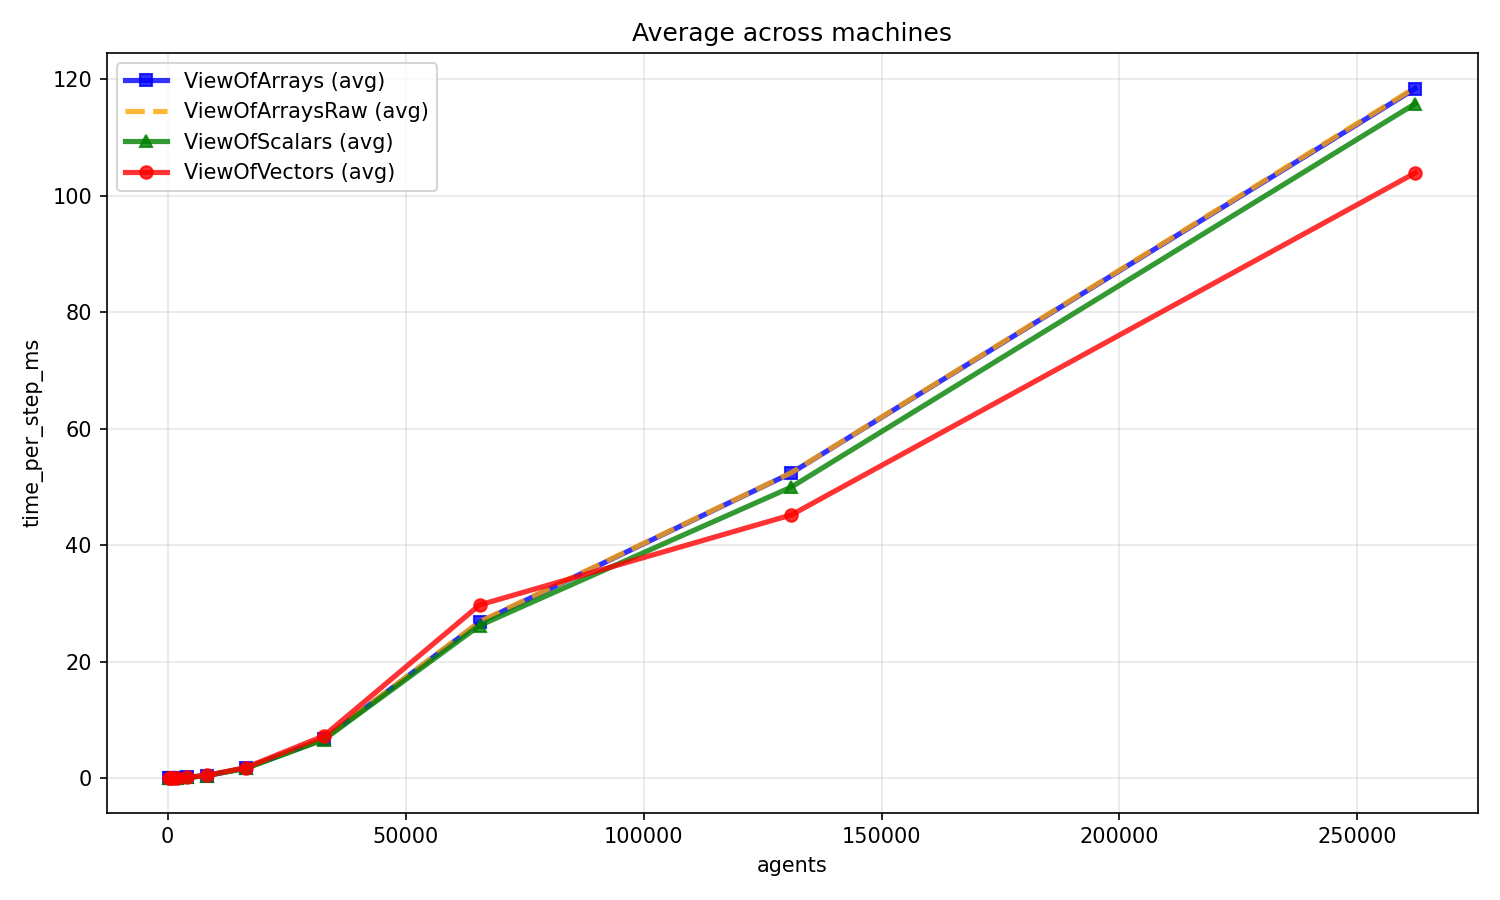
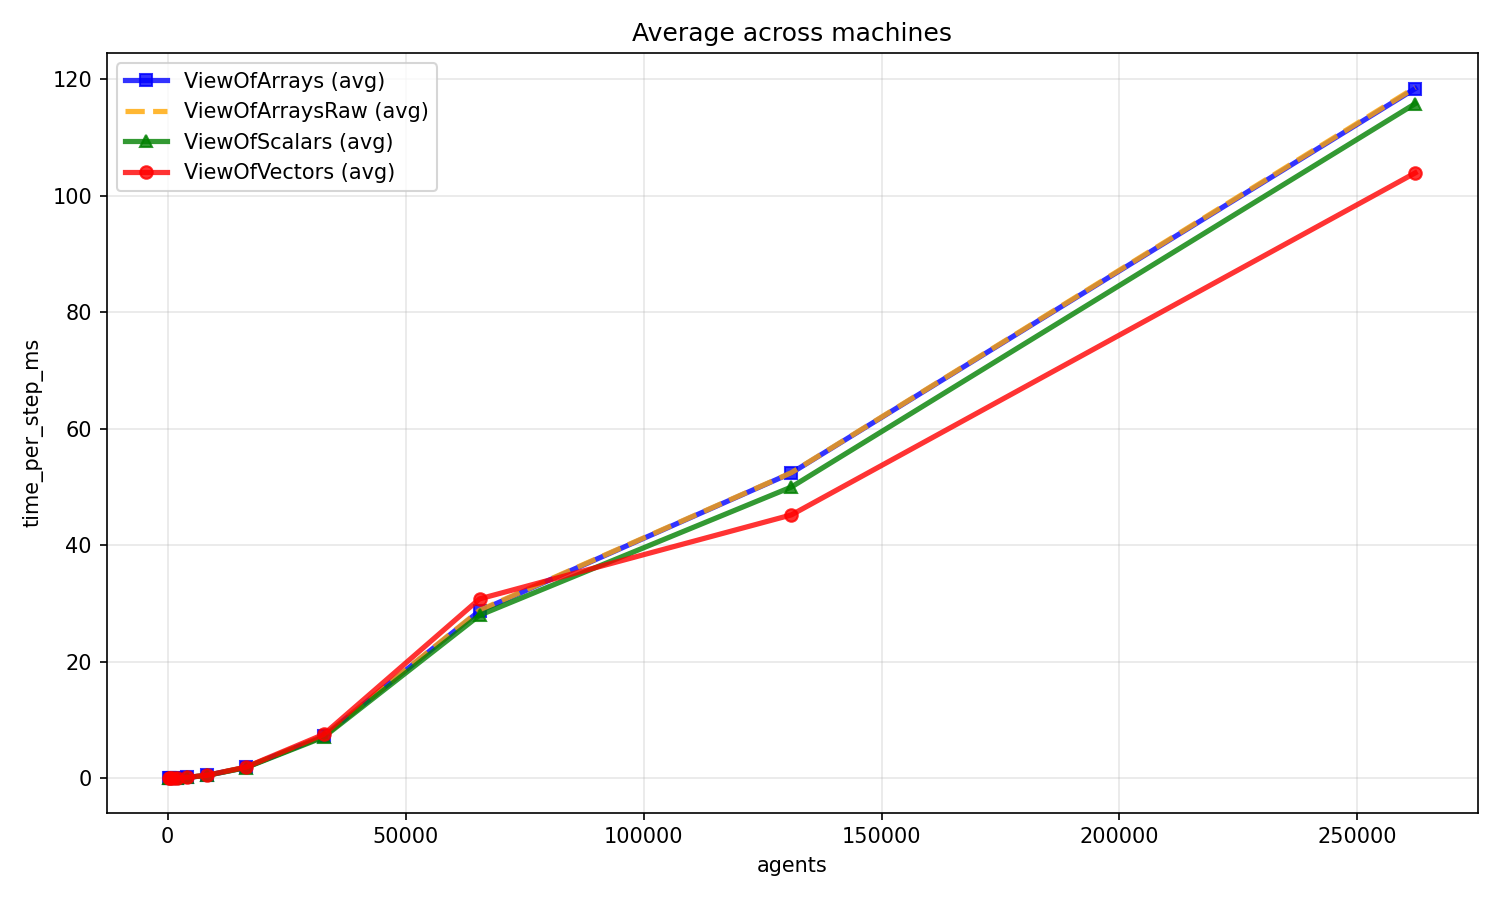
kernel fusing benchmark results

Changed region(s): [[0.2453, 0.5289, 0.5213, 0.7778], [0.184, 0.7778, 0.2453, 0.84], [0.1533, 0.84, 0.184, 0.8711]]

diff --git a/benchmark/kernel_fusing/vis.py b/benchmark/kernel_fusing/vis.py
@@ -52,16 +52,16 @@ def main():
         by_machine[row["machine"]].append(row)
 
     marker_by_benchmark = {
-        "ViewOfVectors": "o",
-        "ViewOfArrays": "s",
-        "ViewOfArraysRaw": None,
-        "ViewOfScalars": "^",
+        "ControlKernel": "o",
+        "SplitKernel": "s",
+        "UserFusedKernel": "*",
+        "AutoFusedKernel": "^",
     }
     color_by_benchmark = {
-        "ViewOfVectors": "red",
-        "ViewOfArrays": "blue",
-        "ViewOfArraysRaw": "orange",
-        "ViewOfScalars": "green",
+        "ControlKernel": "red",
+        "SplitKernel": "blue",
+        "UserFusedKernel": "orange",
+        "AutoFusedKernel": "green",
     }
 
     for machine, machine_rows in by_machine.items():
@@ -79,7 +79,7 @@ def main():
                 times,
                 marker=marker_by_benchmark.get(benchmark, "o"),
                 linewidth=2,
-                linestyle="--" if benchmark == "ViewOfArraysRaw" else "-",
+                linestyle="--",
                 color=color_by_benchmark.get(benchmark, None),
                 label=benchmark,
             )
@@ -106,7 +106,7 @@ def main():
             times,
             marker=marker_by_benchmark.get(benchmark, "o"),
             linewidth=2.5,
-            linestyle="--" if benchmark == "ViewOfArraysRaw" else "-",
+            linestyle="--",
             color=color_by_benchmark.get(benchmark, None),
             alpha=0.8,
             label=f"{benchmark} (avg)",
